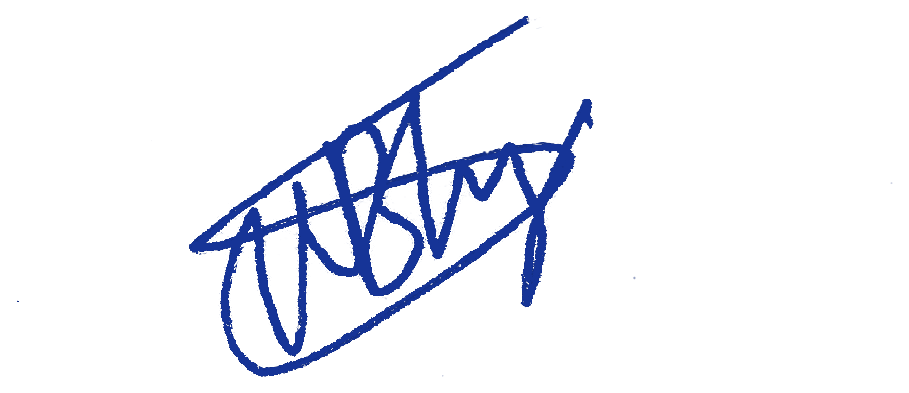
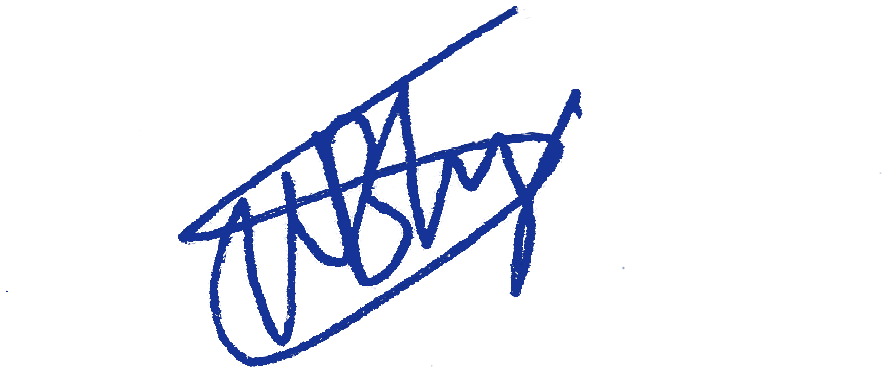
feat: align both signatures to exact same baseline height and eliminate gap above line

Changed region(s): [[0.1824, 0.0298, 0.6385, 1.0], [0.6385, 0.2385, 0.6689, 0.3279]]

diff --git a/src/app/(student)/result/[attemptId]/page.tsx b/src/app/(student)/result/[attemptId]/page.tsx
@@ -658,22 +658,22 @@ export default function StudentResultPage({
                         return (
                           <div key={sig.id || idx} className="text-center min-w-[125px] sm:min-w-[155px] max-w-[185px]">
                             {/* Signature Image above the line */}
-                            <div className="h-12 sm:h-16 flex items-end justify-center mb-1">
+                            <div className="h-11 sm:h-15 flex items-end justify-center mb-0">
                               {sigImg ? (
                                 // eslint-disable-next-line @next/next/no-img-element
                                 <img
                                   src={sigImg}
                                   alt={sig.name}
                                   crossOrigin="anonymous"
-                                  className={`${isDrDeepak ? 'h-11 sm:h-15 max-w-[145px]' : 'h-8 sm:h-11 max-w-[140px]'} w-auto object-contain drop-shadow-xs`}
+                                  className={`${isDrDeepak ? 'h-10 sm:h-14 max-w-[140px]' : 'h-7 sm:h-10 max-w-[140px]'} w-auto object-contain drop-shadow-xs block`}
                                 />
                               ) : (
-                                <div className="h-6" />
+                                <div className="h-5" />
                               )}
                             </div>
 
                             {/* Signature Line */}
-                            <div className="border-t border-slate-400 w-full mb-1" />
+                            <div className="border-t border-slate-400 w-full mt-0 mb-1" />
 
                             {/* Signatory Name */}
                             <div className="text-xs sm:text-sm font-bold text-slate-900 leading-tight">

diff --git a/src/lib/certificatePdf.ts b/src/lib/certificatePdf.ts
@@ -414,8 +414,8 @@ export async function generateCertificatePdfBuffer({
       // Render uploaded transparent PNG signature centered just above the signature line
       if (img) {
         const aspect = img.width / img.height
-        // Allow taller headroom for multi-tier / squarer signatures (aspect < 1.7) so the actual signature name isn't shrunk
-        const effectiveMaxH = aspect < 1.7 ? (sigCount === 4 ? 18 : 22) : (sigCount === 4 ? 14 : 16.5)
+        // Allow taller headroom for multi-tier signatures (aspect < 1.7) so the signature is balanced with landscape signatures
+        const effectiveMaxH = aspect < 1.7 ? (sigCount === 4 ? 17 : 20.5) : (sigCount === 4 ? 13 : 15.5)
         const effectiveMaxW = maxSigImgW
         let drawW = effectiveMaxW
         let drawH = drawW / aspect
@@ -424,11 +424,12 @@ export async function generateCertificatePdfBuffer({
           drawW = drawH * aspect
         }
         try {
+          // Exactly 0.2mm above lineY so signature rests cleanly directly on the line with zero floating gap
           doc.addImage(
             img.dataUrl,
             'PNG',
             centerX - drawW / 2,
-            lineY - drawH - 1.0,
+            lineY - drawH - 0.2,
             drawW,
             drawH
           )

diff --git a/src/lib/signatories.ts b/src/lib/signatories.ts
@@ -19,7 +19,7 @@ export const DEFAULT_SIGNATORIES: CertificateSignatory[] = [
     designation: 'Microbiologist',
     organization: 'Metropolitan Surveillance Unit (MSU), Nagpur',
     organizationLine2: 'Nagpur Municipal Corporation, Nagpur',
-    signatureUrl: 'https://ulrrjbsjcssxwdjivrzc.supabase.co/storage/v1/object/public/certificate-assets/signatures/dr_sandeep_bhoyar_signature_1795086316365.png',
+    signatureUrl: 'https://ulrrjbsjcssxwdjivrzc.supabase.co/storage/v1/object/public/certificate-assets/signatures/dr_sandeep_bhoyar_signature_1795157734860.png',
   },
   {
     id: 'sig-2',
@@ -27,7 +27,7 @@ export const DEFAULT_SIGNATORIES: CertificateSignatory[] = [
     designation: 'Medical Officer Health (MOH)',
     organization: 'Nagpur Municipal Corporation, Nagpur',
     organizationLine2: '',
-    signatureUrl: 'https://ulrrjbsjcssxwdjivrzc.supabase.co/storage/v1/object/public/certificate-assets/signatures/dr_deepak_selokar_signature_1795157465250.png',
+    signatureUrl: 'https://ulrrjbsjcssxwdjivrzc.supabase.co/storage/v1/object/public/certificate-assets/signatures/dr_deepak_selokar_signature_1795157734860.png',
   },
 ]
 
